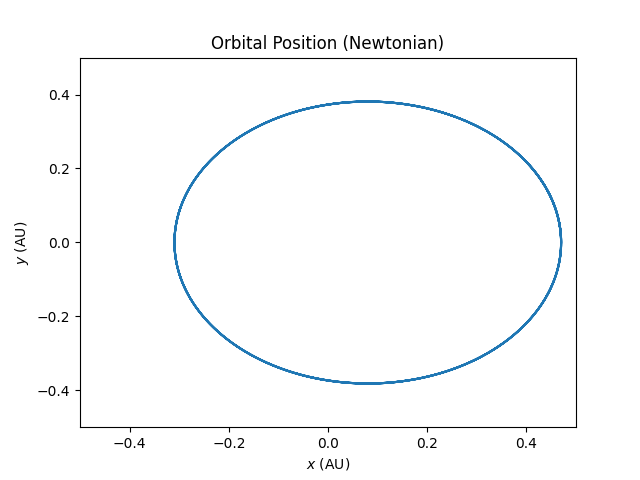
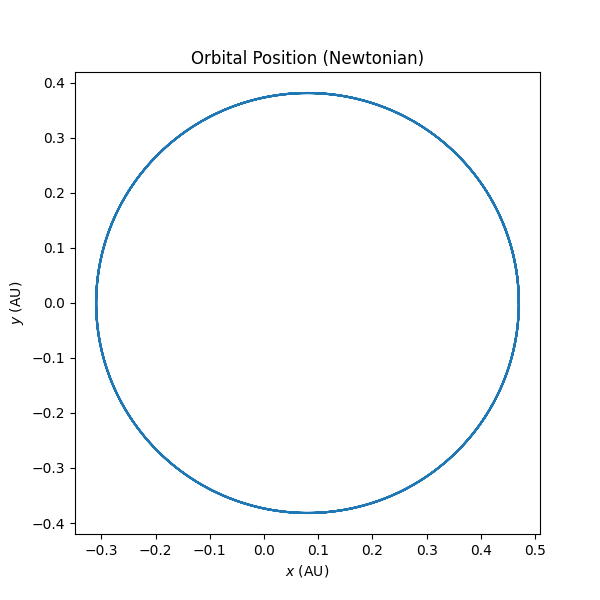
changed fig size

diff --git a/lab1/Q1.py b/lab1/Q1.py
@@ -1,6 +1,6 @@
 """
 Q1 code. External function and variable calls to myFunction.py for gravity formulas and constants.
-Authors: Sam De Abreu 
+Authors: Sam De Abreu
 """
 import numpy as np
 import matplotlib.pyplot as plt
@@ -14,7 +14,7 @@ N = int(1/dt) #steps
 def main(func, ver): #Main algorithm for computing and plotting orbits
     """
     Main algorithm for computing and plotting orbits
-    INPUT: func is the acceleration formula and ver is either Newtonian or Relativistic 
+    INPUT: func is the acceleration formula and ver is either Newtonian or Relativistic
     OUTPUT: Plots
     """
     #Initialize arrays with initial conditions
@@ -24,8 +24,8 @@ def main(func, ver): #Main algorithm for computing and plotting orbits
     vy = np.zeros(N)
     x[0] = x0
     y[0] = y0
-    vx[0] = vx0 
-    vy[0] = vy0 
+    vx[0] = vx0
+    vy[0] = vy0
     #Loop for 10**4 steps and solve equations using Euler-Cromer method
     for i in range(1, N):
         vx[i] = vx[i-1] + func(x[i-1], y[i-1])[0]*dt
@@ -34,13 +34,13 @@ def main(func, ver): #Main algorithm for computing and plotting orbits
         y[i] = y[i-1] + vy[i]*dt
 
     #Compute angular momentum
-    L = (x*vy - y*vx) 
+    L = (x*vy - y*vx)
 
     #Plot position of planet (x, y) space
     time = np.array(range(N))*dt
+
+    plt.gcf().set_size_inches(6,6)
     plt.plot(x, y)
-    plt.xlim(-0.5, 0.5)
-    plt.ylim(-0.5, 0.5)
     plt.xlabel('$x$ (AU)')
     plt.ylabel('$y$ (AU)')
     plt.title('Orbital Position ({})'.format(ver))
@@ -67,6 +67,6 @@ def main(func, ver): #Main algorithm for computing and plotting orbits
     plt.savefig('lab1/img/Q1angularmomentum_{0}.png'.format(ver))
     plt.clf()
 
-if __name__ == '__main__': 
+if __name__ == '__main__':
     main(myf.gravity, 'Newtonian') #Newtonian orbits, Q1c
     main(myf.gravity_rel, 'Relativistic') #Relativistic orbits, Q1d

diff --git a/lab1/Q2.py b/lab1/Q2.py
@@ -68,11 +68,11 @@ def main(mjup, x0, y0, vx0, vy0, timespan, ver):
         y[i] = y[i-1] + vy[i]*dt
 
     #Plot position of planet (x, y) space
+
+    plt.gcf().set_size_inches(6,6)
     plt.plot(x, y, label=ver['small'])
     plt.plot(xj, yj, label=ver['big'])
     plt.legend()
-    plt.xlim(-6, 6)
-    plt.ylim(-6, 6)
     plt.xlabel('$x$ (AU)')
     plt.ylabel('$y$ (AU)')
     plt.title('Orbital Position')
